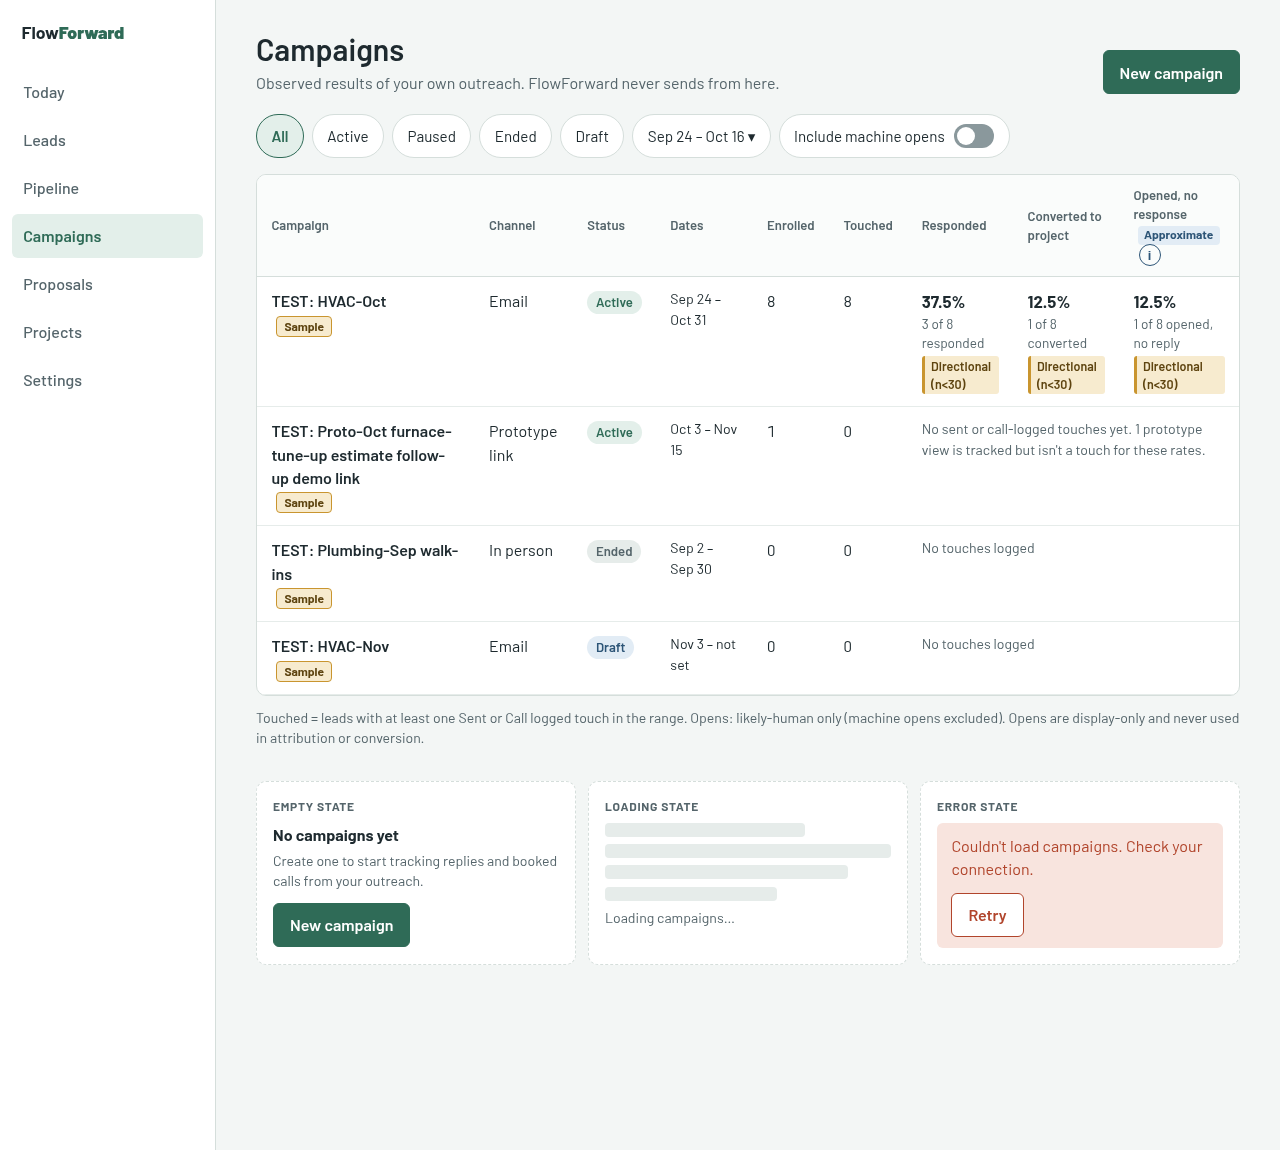
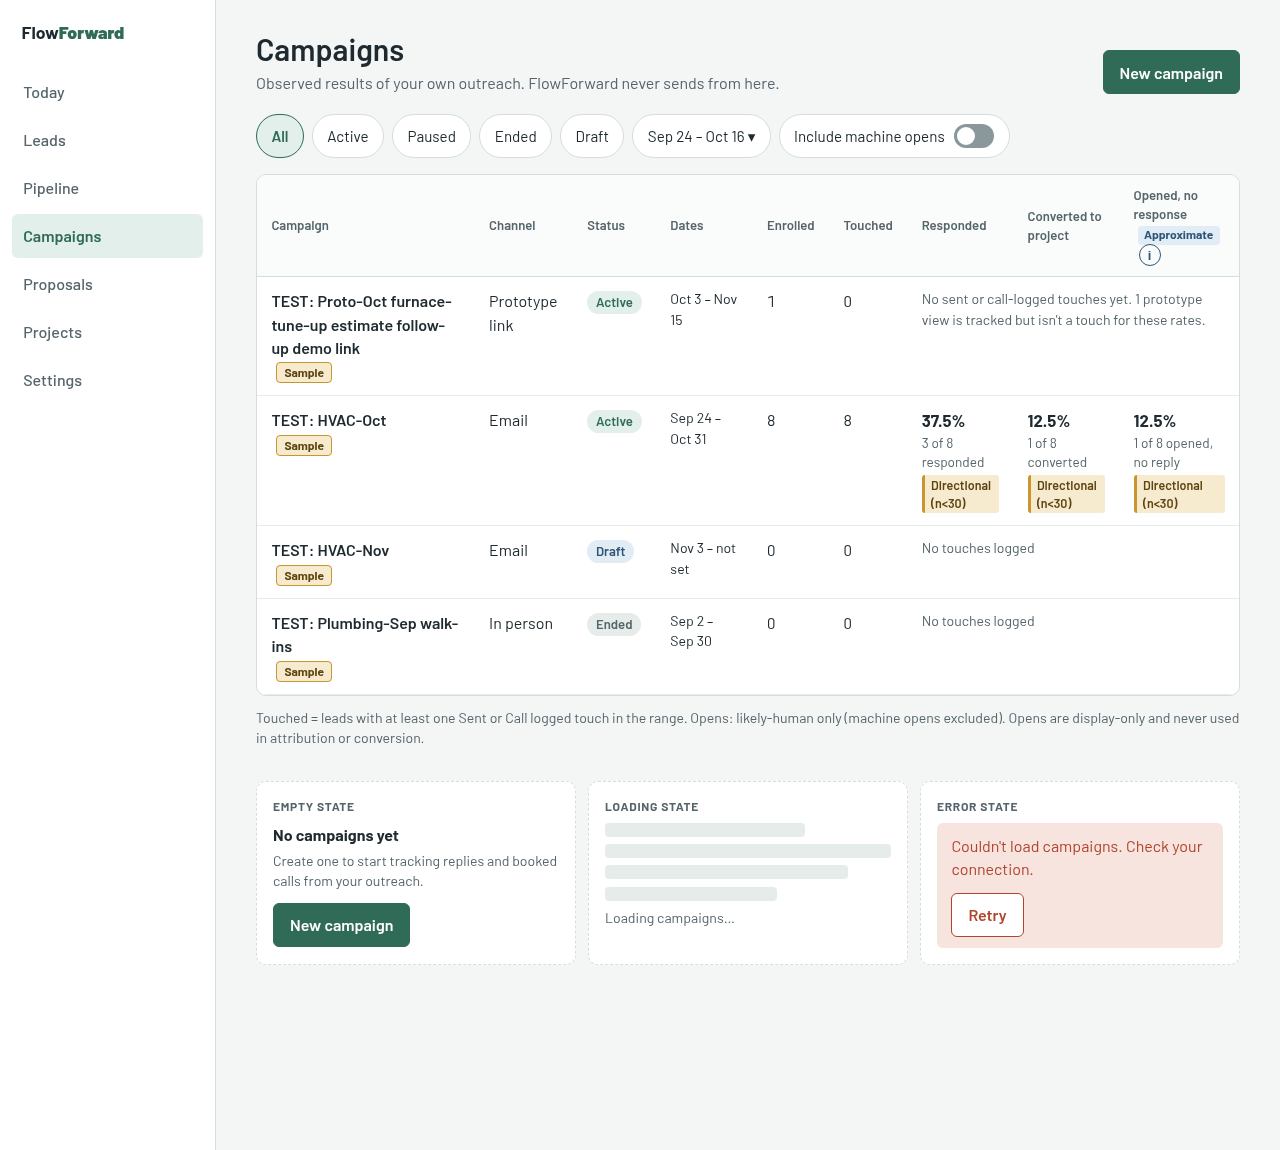
docs(design): campaigns list mock sort matches spec (#93)

diff --git a/docs/design/campaigns/mock-gen.py b/docs/design/campaigns/mock-gen.py
@@ -181,6 +181,12 @@ camps2=[("TEST: HVAC-Oct","Email","active","Sep 24 – Oct 31",8,8,3,1,1,2),
        ("TEST: Proto-Oct furnace-tune-up estimate follow-up demo link","Prototype link","active","Oct 3 – Nov 15",1,0,0,0,0,0),
        ("TEST: Plumbing-Sep walk-ins","In person","ended","Sep 2 – Sep 30",0,0,0,0,0,0),
        ("TEST: HVAC-Nov","Email","draft","Nov 3 – not set",0,0,0,0,0,0)]
+# List sort (campaigns.md §2): Active first, then newest start date; same rule inside the non-active group.
+_MON={m:i for i,m in enumerate(["Jan","Feb","Mar","Apr","May","Jun","Jul","Aug","Sep","Oct","Nov","Dec"],1)}
+def _start(c):
+    mon,day=c[3].split(" – ")[0].split()
+    return (_MON[mon],int(day))
+camps2=sorted(camps2,key=lambda c:(c[2]!="active",tuple(-x for x in _start(c))))
 NT=lambda c: 'No sent or call-logged touches yet. 1 prototype view is tracked but isn\'t a touch for these rates.' if c[4] else 'No touches logged'
 def hcells(c,d,email=True):
     return [(c[0],"responded"),(c[1],"converted"),(c[2] if email else None,"opened, no reply"),(c[3],"booked")]

diff --git a/docs/design/campaigns.md b/docs/design/campaigns.md
@@ -74,7 +74,7 @@ Route `/campaigns`. Mocks: `list-390.png`, `list-1280.png`.
 - **Header:** "Campaigns", the subtitle "Observed results of your own outreach. FlowForward never sends from here.", and a **New campaign** button (full width at 390).
 - **Filters:** status chips (All, Active, Paused, Ended, Draft) and a date-range chip (default is campaign lifetime, e.g. "Sep 24 – Oct 16"). Single-select, 44px.
 - **Machine-opens switch** at the end of the filter row (§0.1).
-- **1280, table.** Columns: Campaign (name wraps, Sample tag, min 210px), Channel, Status pill, Dates (`start – end`, "not set" when there's no end), Enrolled, Touched, then the three headlines: Responded, Converted to project, and Opened no response (Approximate and ⓘ in the header). Booked moved to detail and Channels so the list fits at 1280 without truncating names. Rows with 0 touched merge the headline columns into "No touches logged". A campaign whose only activity is a prototype view shows "No sent or call-logged touches yet. 1 prototype view is tracked but isn't a touch for these rates." Tapping a row opens detail. Default sort: Active first, then newest start date.
+- **1280, table.** Columns: Campaign (name wraps, Sample tag, min 210px), Channel, Status pill, Dates (`start – end`, "not set" when there's no end), Enrolled, Touched, then the three headlines: Responded, Converted to project, and Opened no response (Approximate and ⓘ in the header). Booked moved to detail and Channels so the list fits at 1280 without truncating names. Rows with 0 touched merge the headline columns into "No touches logged". A campaign whose only activity is a prototype view shows "No sent or call-logged touches yet. 1 prototype view is tracked but isn't a touch for these rates." Tapping a row opens detail. **Default sort (cards at 390 and rows at 1280):** Active campaigns first, then everything else (Paused, Ended and Draft together, with no order between statuses). Within each group, newest start date first. A campaign with no start date goes last in its group. In the fixture that gives `TEST: Proto-Oct…` (Active, Oct 3), `TEST: HVAC-Oct` (Active, Sep 24), `TEST: HVAC-Nov` (Draft, Nov 3), `TEST: Plumbing-Sep walk-ins` (Ended, Sep 2).
 - **390, cards.** Top row: name (wraps) and status pill. Then one muted line, "Channel · dates · N enrolled · N touched". Then a 2-column grid of the three headline `RateCell`s. Opened carries Approximate and ⓘ, and non-email campaigns leave it out. The whole card is the tap target.
 - Footnote: "Touched = leads with at least one Sent or Call logged touch in the range. Opens: likely-human only (machine opens excluded). Opens are display-only and never used in attribution or conversion." Views that show booked/converted also state the model ("last-touch attribution, 90-day window"). It follows the Channels toggle and is remembered in `localStorage`, like `ff.leadFilters`.
 - **Status pills:** Active juniper-wash/juniper, Paused ochre-wash/#5E4410, Ended line-2/ink-2, Draft sky-wash/#2D5577.
